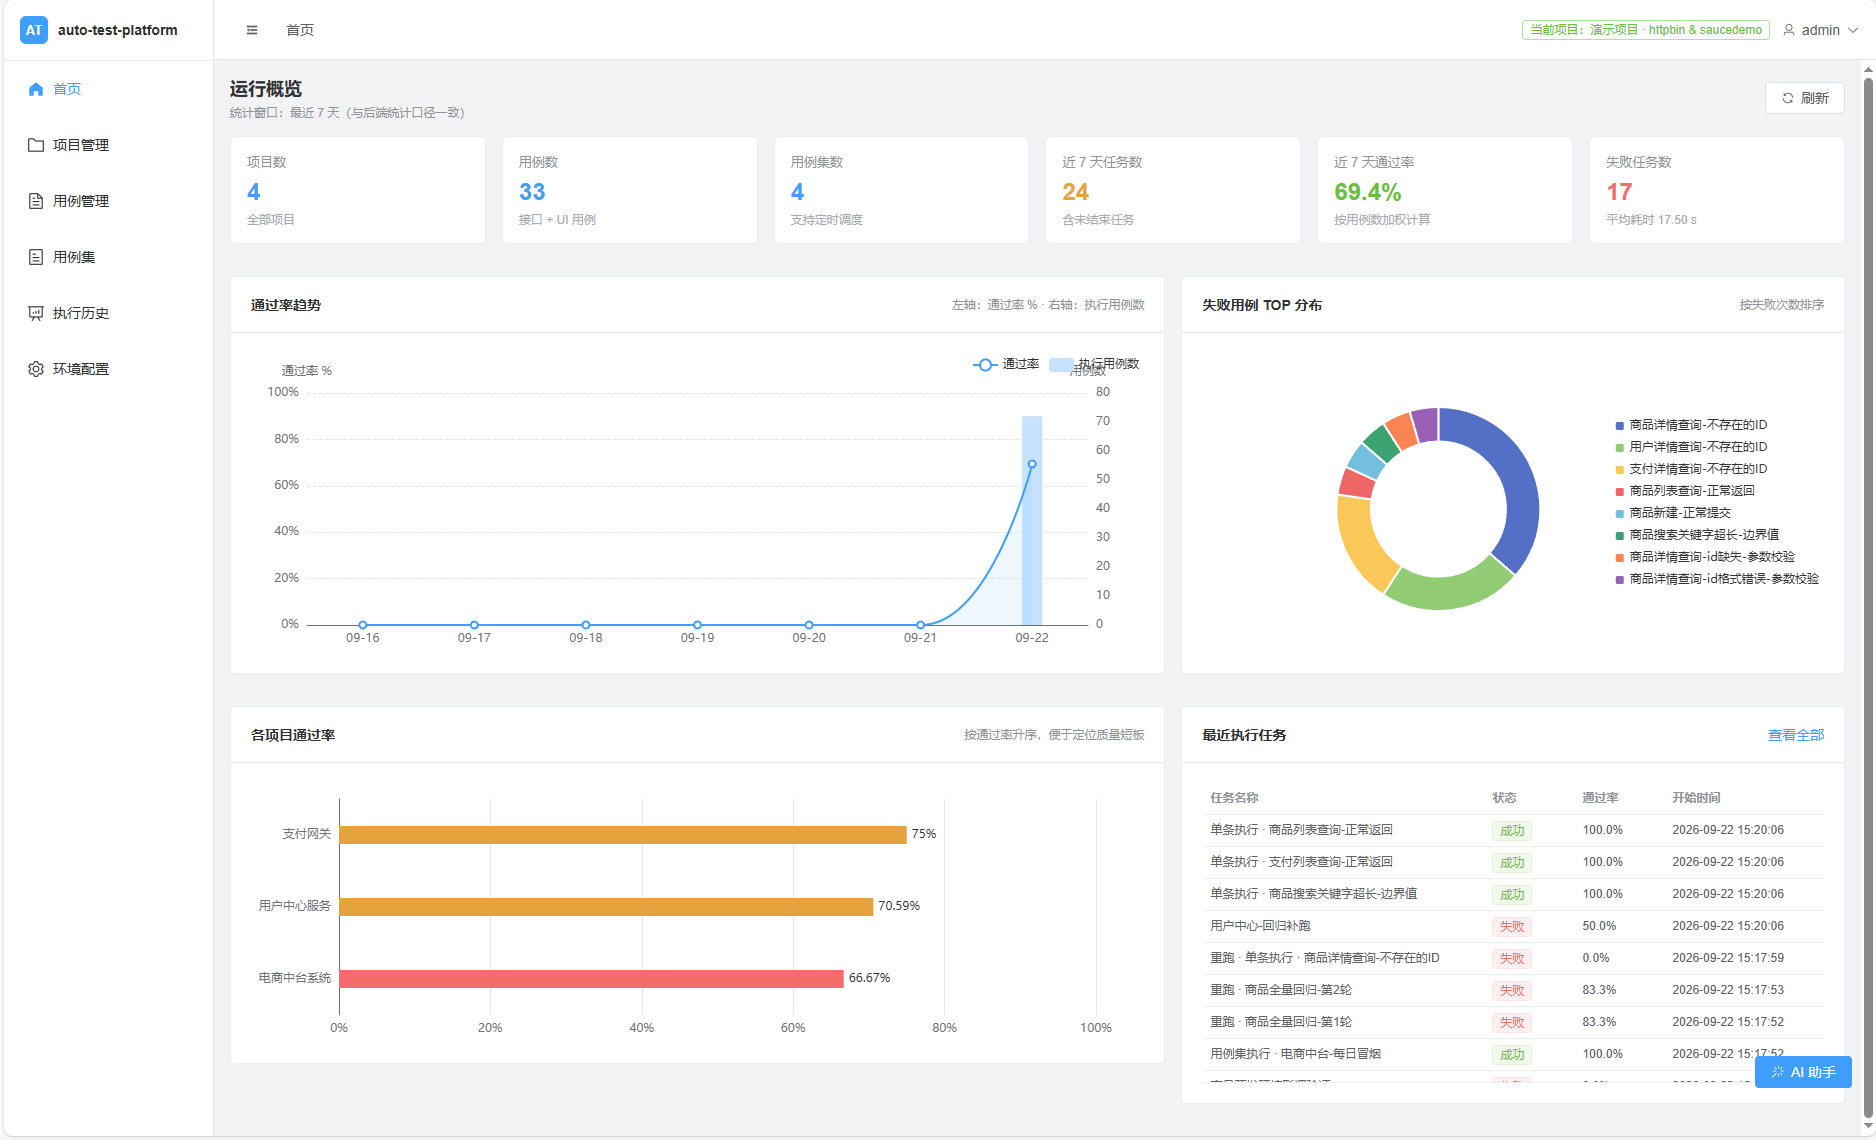
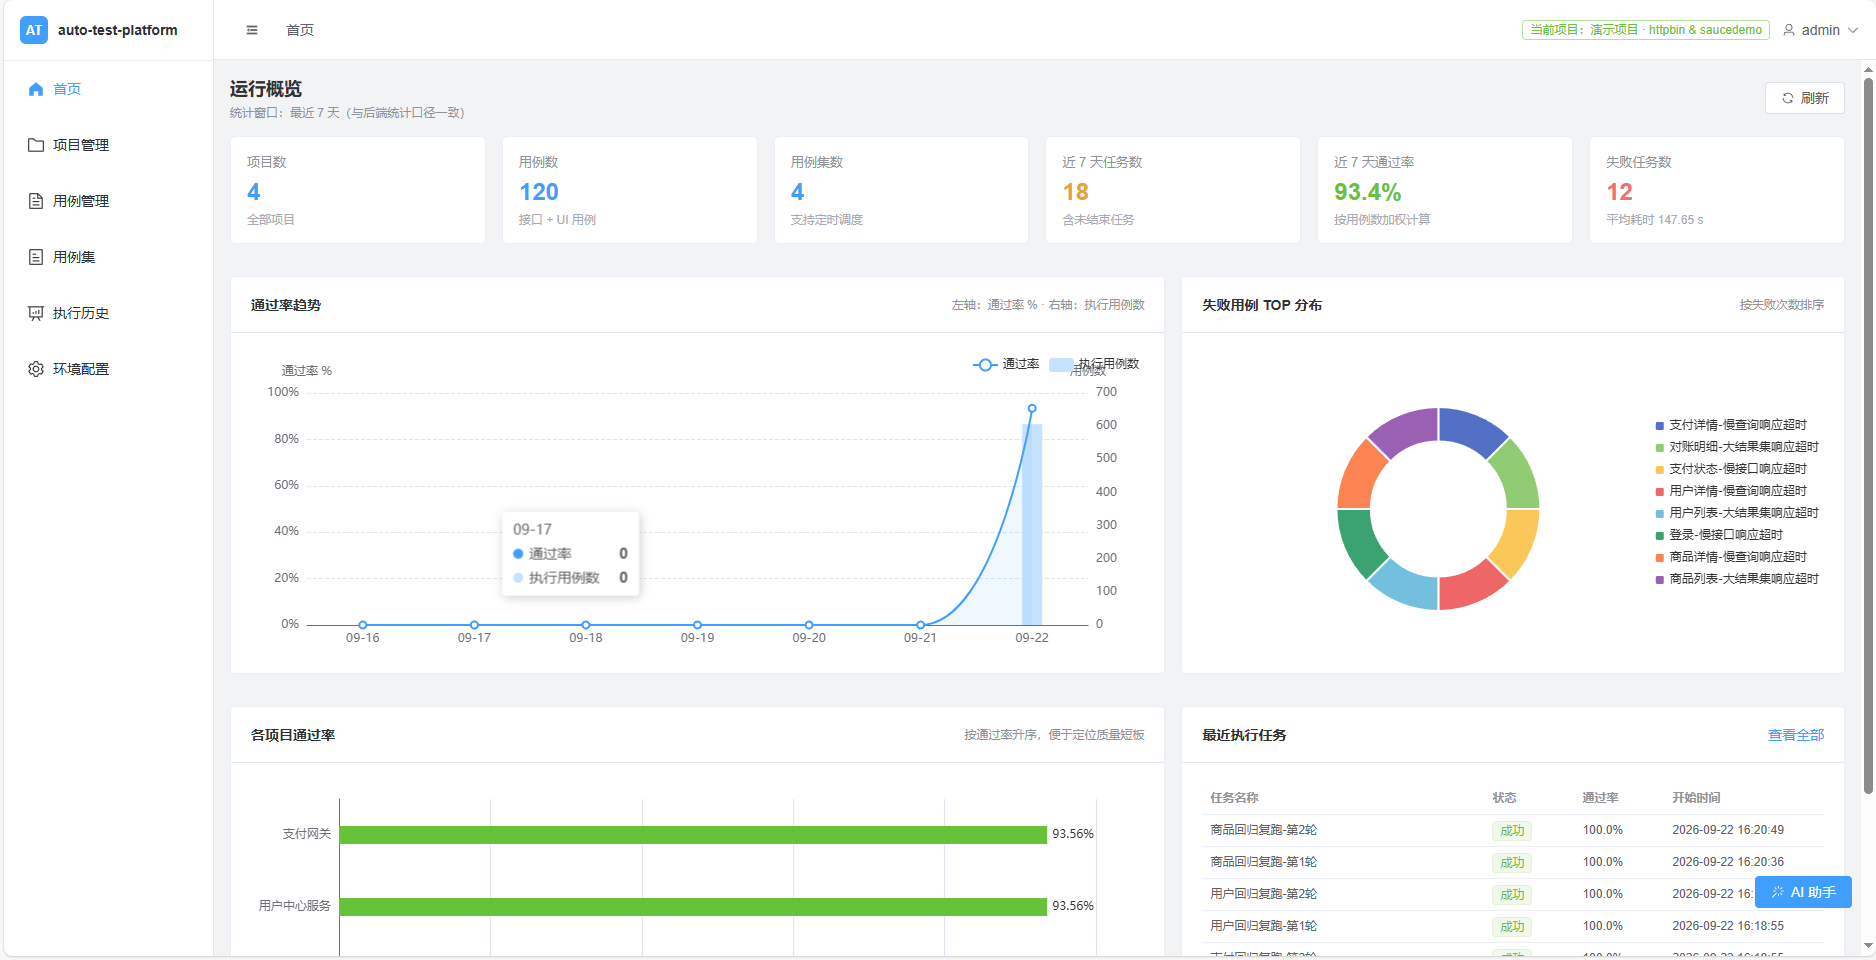
docs: refresh UI screenshots and sync README figures with the demo dataset

diff --git a/README.md b/README.md
@@ -123,31 +123,35 @@ flowchart TB
 
 ## 界面预览
 
-> 以下截图基于演示数据：3 个业务线项目、18 条接口用例、24 次执行记录。
+> 以下截图取自实际运行的演示数据：4 个项目、120 条接口用例、600+ 次用例执行，整体通过率 93%。
 
-**运行概览首页**：通过率趋势、失败用例分布、各项目质量一目了然
+**登录页**：默认账号 admin / admin123
 
-![运行概览首页](docs/screenshots/02-dashboard.png)
+![登录页](docs/screenshots/01-login.png)
+
+**运行概览**：120+ 用例、600+ 次执行、93% 通过率趋势一目了然
+
+![运行概览](docs/screenshots/02-dashboard.png)
+
+**AI 智能助手**：自然语言查询测试报告，已接入 DeepSeek 大模型
+
+![AI 智能助手](docs/screenshots/03-ai-assistant.png)
 
 **多项目管理**：按业务线隔离用例与环境
 
-![多项目管理](docs/screenshots/03-projects.png)
+![多项目管理](docs/screenshots/04-projects.png)
 
-**用例管理**：接口用例与 UI 用例统一管理，支持标签分类
+**用例管理**：35+ 条用例/项目，标签分类清晰
 
-![用例管理](docs/screenshots/04-testcases.png)
+![用例管理](docs/screenshots/05-testcases.png)
 
-**用例编辑器**：可视化编排 UI 步骤与接口断言规则
+**用例集与定时任务**：可视化编排，cron 自动回归
 
-![用例编辑器](docs/screenshots/05-case-editor.png)
+![用例集与定时任务](docs/screenshots/06-testsuite-editor.png)
 
-**用例集与定时任务**：cron 调度自动回归
+**多环境配置**：dev/staging 环境变量统一管理
 
-![用例集与定时任务](docs/screenshots/06-testsuites.png)
-
-**AI 智能助手**：自然语言查询测试报告，失败根因分析
-
-![AI 智能助手](docs/screenshots/07-ai-assistant.png)
+![多环境配置](docs/screenshots/07-environment-config.png)
 
 ---
 
